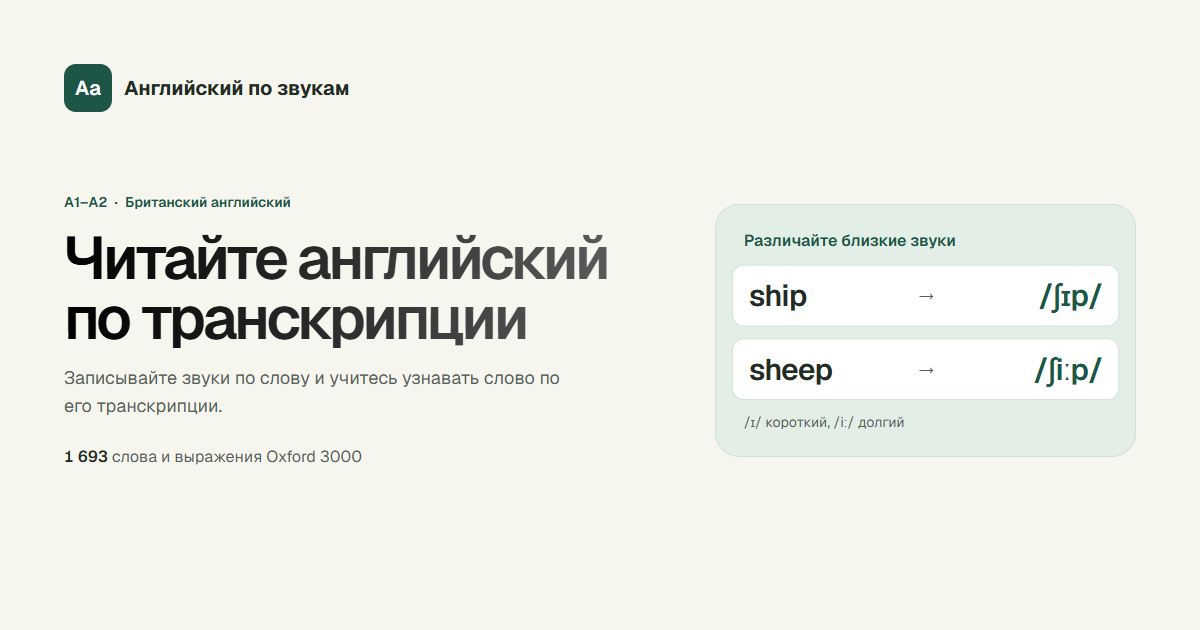
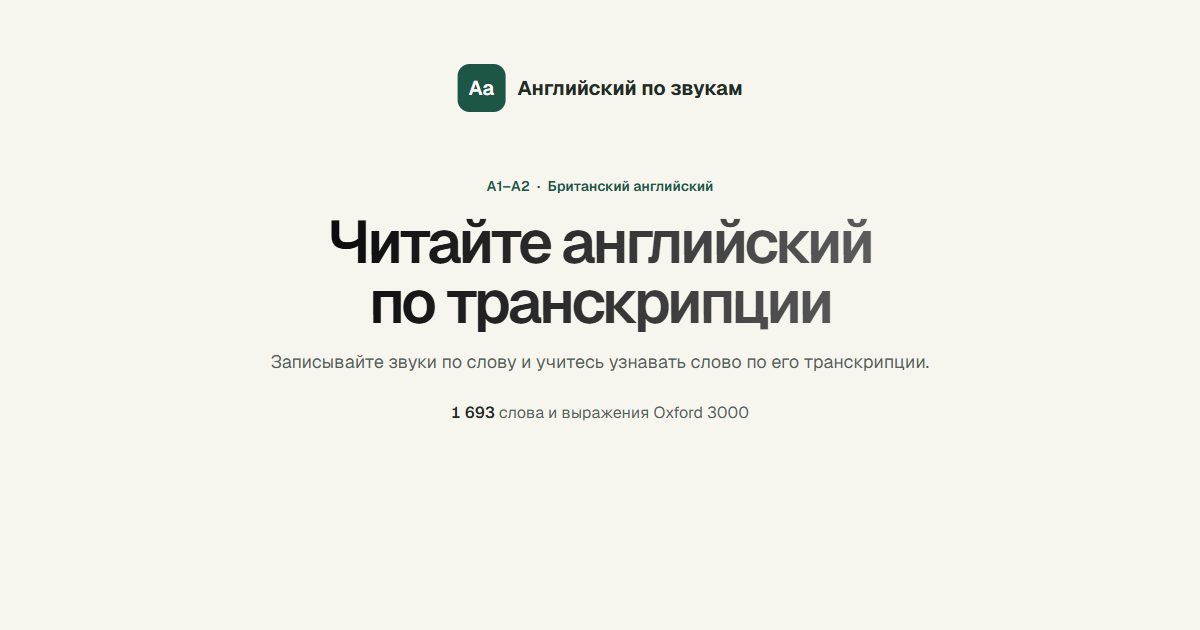
Refine homepage layout

diff --git a/styles.css b/styles.css
@@ -96,13 +96,9 @@ p { text-wrap: pretty; }
 .site-nav a:hover { background: var(--sage-light); color: var(--accent-hover); }
 
 .page-content { padding: 40px 0 64px; }
-.page-heading {
-  display: grid;
-  grid-template-columns: minmax(0, 1.4fr) minmax(0, .85fr);
-  align-items: center;
-  gap: 40px;
-  margin-bottom: 32px;
-}
+.page-heading { margin-bottom: 32px; text-align: center; }
+.page-heading .hero-copy h1, .page-heading .page-intro { margin-inline: auto; }
+.page-heading .hero-actions { justify-content: center; }
 
 .hero-context {
   margin: 0 0 16px;
@@ -143,45 +139,6 @@ p { text-wrap: pretty; }
 .hero-source { margin: 0; color: var(--muted); font-size: 14px; line-height: 20px; }
 .hero-source strong { color: var(--ink); font-weight: 600; font-variant-numeric: tabular-nums; }
 
-.hero-example {
-  min-width: 0;
-  display: grid;
-  gap: 12px;
-  margin: 0;
-  padding: 12px;
-  border: 1px solid #c9ddcf;
-  border-radius: 24px;
-  background: var(--sage);
-}
-
-.hero-example figcaption {
-  padding: 8px 12px 0;
-  color: var(--accent);
-  font-size: 16px;
-  line-height: 24px;
-  font-weight: 600;
-}
-
-.example-pair {
-  display: grid;
-  grid-template-columns: minmax(0, 1fr) auto minmax(0, 1fr);
-  align-items: center;
-  gap: 12px;
-  padding: 12px 16px;
-  border: 1px solid #cfdfd3;
-  border-radius: 12px;
-  background: var(--surface);
-  font-size: 30px;
-  line-height: 36px;
-  font-weight: 600;
-  letter-spacing: -.025em;
-  overflow-wrap: anywhere;
-}
-.example-pair span:nth-child(2) { color: var(--muted); font-size: 20px; line-height: 28px; }
-.example-pair span:last-child { color: var(--accent); text-align: right; }
-.hero-example p { margin: 0; padding: 0 12px 8px; color: var(--muted); font-size: 14px; line-height: 20px; }
-
-.practice { display: grid; gap: 16px; }
 .variant-card, .worksheet, .side-card, .word-groups-panel {
   border: 1px solid var(--border);
   border-radius: 16px;
@@ -189,11 +146,10 @@ p { text-wrap: pretty; }
 }
 
 .variant-card {
+  grid-area: variant;
   display: grid;
-  grid-template-columns: minmax(0, 1fr) auto;
-  align-items: center;
-  gap: 16px 24px;
-  padding: 16px 24px;
+  gap: 16px;
+  padding: 24px;
 }
 
 .variant-card h2, .side-card h2 {
@@ -204,7 +160,7 @@ p { text-wrap: pretty; }
   letter-spacing: -.02em;
 }
 
-#settings { display: grid; grid-template-columns: minmax(144px, auto) minmax(132px, auto) auto; align-items: end; gap: 12px; }
+#settings { display: grid; align-items: end; gap: 12px; }
 .settings-field { min-width: 0; }
 .field-label {
   display: block;
@@ -215,8 +171,15 @@ p { text-wrap: pretty; }
   font-weight: 600;
 }
 
-.workspace { display: grid; grid-template-columns: minmax(0, 1fr) 300px; gap: 16px; align-items: start; }
-.worksheet { min-width: 0; box-shadow: 0 12px 32px rgb(41 62 48 / 4%); }
+.workspace {
+  display: grid;
+  grid-template-columns: minmax(0, 1fr) 300px;
+  grid-template-rows: auto 1fr;
+  grid-template-areas: "worksheet variant" "worksheet actions";
+  gap: 16px;
+  align-items: start;
+}
+.worksheet { grid-area: worksheet; min-width: 0; box-shadow: 0 12px 32px rgb(41 62 48 / 4%); }
 .tabs {
   display: grid;
   grid-template-columns: repeat(2, minmax(0, 1fr));
@@ -356,7 +319,7 @@ p { text-wrap: pretty; }
 .button-outline { color: var(--ink); background: var(--surface); border-color: var(--strong-border); }
 .button-outline:hover { background: var(--sage-light); border-color: var(--accent); }
 .side-card { padding: 24px; }
-.actions-card { position: sticky; top: 96px; }
+.actions-card { grid-area: actions; position: sticky; top: 96px; }
 .action-buttons { display: grid; gap: 8px; margin-top: 16px; }
 .muted { margin: 4px 0 0; color: var(--muted); font-size: 14px; line-height: 20px; }
 .form-note { margin: 0; color: var(--muted); font-size: 12px; line-height: 16px; }
@@ -441,12 +404,17 @@ p { text-wrap: pretty; }
 
 @media (max-width: 1060px) {
   .hero-copy h1 { font-size: 48px; line-height: 1; }
-  .page-heading { gap: 24px; }
 }
 
 @media (max-width: 900px) {
   .site-shell { padding: 0 24px; }
-  .workspace { grid-template-columns: minmax(0, 1fr); }
+  .workspace {
+    grid-template-columns: minmax(0, 1fr);
+    grid-template-rows: auto;
+    grid-template-areas: "variant" "worksheet" "actions";
+  }
+  .variant-card { grid-template-columns: minmax(0, 1fr) auto; align-items: center; }
+  #settings { grid-template-columns: minmax(144px, auto) minmax(132px, auto) auto; }
   .actions-card { position: static; }
   .word-groups { grid-template-columns: repeat(2, minmax(0, 1fr)); }
 }
@@ -455,23 +423,17 @@ p { text-wrap: pretty; }
   .ipa-key { min-width: 32px; }
 }
 
-@media (min-width: 741px) and (max-width: 820px) {
-  .hero-copy h1 { font-size: 36px; line-height: 40px; }
-}
-
 @media (max-width: 740px) {
   .site-shell { padding: 0 16px; }
   .site-header { gap: 8px; margin-top: 12px; padding: 8px; }
   .brand { gap: 8px; }
   .site-nav a { padding: 8px; }
   .page-content { padding: 32px 0 48px; }
-  .page-heading { grid-template-columns: minmax(0, 1fr); gap: 24px; margin-bottom: 24px; }
+  .page-heading { margin-bottom: 24px; }
   .hero-copy h1 { font-size: 36px; line-height: 40px; }
   .hero-context, .page-intro { margin-bottom: 8px; }
   .page-intro { margin-top: 12px; font-size: 16px; line-height: 24px; }
   .hero-actions { margin-top: 16px; }
-  .hero-example { max-width: 520px; }
-  .example-pair { font-size: 24px; line-height: 32px; }
   .variant-card { grid-template-columns: minmax(0, 1fr); padding: 16px; }
   .exercise-panel, .side-card { padding: 16px; }
   .study-tip { margin: 32px 0 24px; padding: 24px 16px; }
@@ -482,7 +444,7 @@ p { text-wrap: pretty; }
 @media (max-width: 480px) {
   .site-nav a, .brand { font-size: 12px; line-height: 16px; }
   .hero-copy h1 { letter-spacing: -.04em; }
-  .hero-actions { align-items: start; flex-direction: column; gap: 8px; }
+  .page-heading .hero-actions { flex-direction: column; gap: 8px; }
   #settings { grid-template-columns: repeat(2, minmax(0, 1fr)); }
   #settings .button { grid-column: 1 / -1; }
   .tab { min-height: 48px; padding: 8px; font-size: 12px; line-height: 16px; }

diff --git a/index.html b/index.html
@@ -9,19 +9,19 @@
   <meta property="og:title" content="Английский по звукам">
   <meta property="og:description" content="Тренажёр чтения и британской транскрипции по словам Oxford 3000 для A1–A2.">
   <meta property="og:url" content="https://dangensquangens.github.io/angliyskiy_mi_na/">
-  <meta property="og:image" content="https://dangensquangens.github.io/angliyskiy_mi_na/share-preview.png">
-  <meta property="og:image:alt" content="Английский по звукам. Пример транскрипции ship и sheep.">
+  <meta property="og:image" content="https://dangensquangens.github.io/angliyskiy_mi_na/share-preview.png?v=4">
+  <meta property="og:image:alt" content="Английский по звукам. Тренажёр чтения и транскрипции для A1–A2.">
   <meta name="twitter:card" content="summary_large_image">
   <title>Английский по звукам</title>
   <link rel="icon" href="favicon.svg?v=3" type="image/svg+xml">
   <link rel="preconnect" href="https://fonts.googleapis.com">
   <link rel="preconnect" href="https://fonts.gstatic.com" crossorigin>
   <link href="https://fonts.googleapis.com/css2?family=Geist:wght@400;500;600;700&display=swap" rel="stylesheet">
-  <link rel="stylesheet" href="styles.css?v=3">
+  <link rel="stylesheet" href="styles.css?v=4">
   <script src="words.js" defer></script>
   <script src="catalog.js" defer></script>
   <script src="responses-pdf.js" defer></script>
-  <script src="app.js?v=3" defer></script>
+  <script src="app.js?v=4" defer></script>
 </head>
 <body>
   <a class="skip-link" href="#exercise-panel" data-section>К заданиям</a>
@@ -48,46 +48,32 @@
             <p class="hero-source"><strong>1&nbsp;693</strong> слова и выражения Oxford 3000</p>
           </div>
         </div>
-        <figure class="hero-example" aria-labelledby="hero-example-title">
-          <figcaption id="hero-example-title">Различайте близкие звуки</figcaption>
-          <div class="example-pair">
-            <span id="hero-short-word" lang="en">ship</span>
-            <span aria-hidden="true">→</span>
-            <span id="hero-short-ipa" lang="en-fonipa">/ʃɪp/</span>
-          </div>
-          <div class="example-pair">
-            <span id="hero-long-word" lang="en">sheep</span>
-            <span aria-hidden="true">→</span>
-            <span id="hero-long-ipa" lang="en-fonipa">/ʃiːp/</span>
-          </div>
-          <p id="hero-contrast"><span lang="en-fonipa">/ɪ/</span> короткий, <span lang="en-fonipa">/iː/</span> долгий</p>
-        </figure>
       </section>
 
       <section id="practice" class="practice" tabindex="-1" aria-label="Практика чтения и транскрипции">
-        <div class="variant-card">
-          <div>
-            <h2 id="settings-title">Ваш вариант</h2>
-            <p id="worksheet-meta" class="muted"></p>
-            <p id="settings-note" class="form-note" role="status" aria-live="polite"></p>
-          </div>
-          <form id="settings" aria-labelledby="settings-title">
-            <div class="settings-field">
-              <label class="field-label" for="word-count">Слов на упражнение</label>
-              <input id="word-count" name="word-count" type="number" min="1" max="15" value="10" required>
-            </div>
-            <div class="settings-field">
-              <label class="field-label" for="level">Уровень слов</label>
-              <select id="level" name="level">
-                <option value="all">A1 и A2</option>
-                <option value="A1">A1</option>
-                <option value="A2">A2</option>
-              </select>
-            </div>
-            <button class="button button-secondary" type="submit">Новый вариант <span aria-hidden="true">↻</span></button>
-          </form>
-        </div>
         <div class="workspace">
+          <section class="variant-card" aria-labelledby="settings-title">
+            <div>
+              <h2 id="settings-title">Ваш вариант</h2>
+              <p id="worksheet-meta" class="muted"></p>
+              <p id="settings-note" class="form-note" role="status" aria-live="polite"></p>
+            </div>
+            <form id="settings" aria-labelledby="settings-title">
+              <div class="settings-field">
+                <label class="field-label" for="word-count">Слов на упражнение</label>
+                <input id="word-count" name="word-count" type="number" min="1" max="15" value="10" required>
+              </div>
+              <div class="settings-field">
+                <label class="field-label" for="level">Уровень слов</label>
+                <select id="level" name="level">
+                  <option value="all">A1 и A2</option>
+                  <option value="A1">A1</option>
+                  <option value="A2">A2</option>
+                </select>
+              </div>
+              <button class="button button-secondary" type="submit">Новый вариант <span aria-hidden="true">↻</span></button>
+            </form>
+          </section>
           <section class="worksheet" aria-label="Упражнения">
             <div class="tabs" role="tablist" aria-label="Выберите упражнение">
               <button id="tab-0" class="tab" type="button" role="tab" data-mode="0" aria-controls="exercise-panel" aria-selected="true" tabindex="0">

diff --git a/app.js b/app.js
@@ -207,24 +207,8 @@
     $('worksheet-meta').textContent = `${levels[worksheet.level]} · ${worksheet.items[0].length} в каждом задании`;
     $('settings-note').textContent = '';
     actionStatus.textContent = '';
-    renderHeroExample();
     renderPrint();
     setMode(draft.mode);
-  }
-
-  function renderHeroExample() {
-    const pairs = [
-      [['ship', 'ʃɪp'], ['sheep', 'ʃiːp']],
-      [['sit', 'sɪt'], ['seat', 'siːt']],
-      [['bin', 'bɪn'], ['bean', 'biːn']],
-      [['bit', 'bɪt'], ['beat', 'biːt']],
-    ];
-    const prompts = new Set(worksheet.items.flat().map(word => word.word));
-    const [short, long] = pairs.find(pair => pair.every(([word]) => !prompts.has(word))) ?? pairs[0];
-    $('hero-short-word').textContent = short[0];
-    $('hero-short-ipa').textContent = `/${short[1]}/`;
-    $('hero-long-word').textContent = long[0];
-    $('hero-long-ipa').textContent = `/${long[1]}/`;
   }
 
   function revealStudyTip() {
